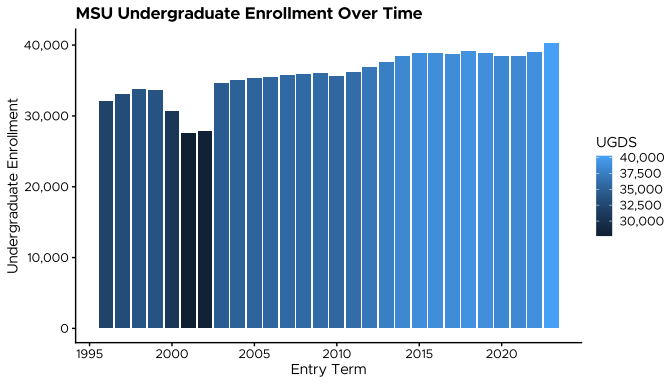
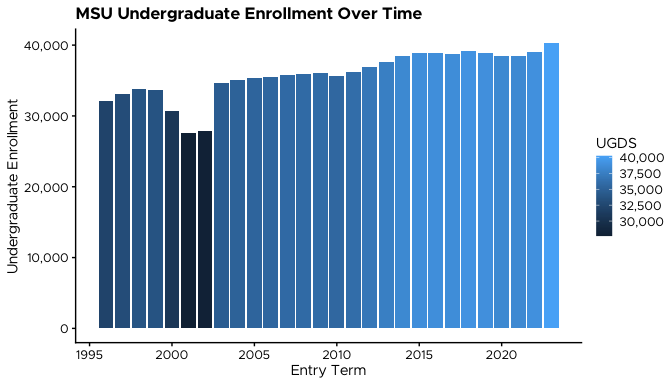
forgot to reknit the README.Rmd... new image files for the README too

diff --git a/README.md b/README.md
@@ -112,7 +112,7 @@ Or install the development version from GitHub:
 
 ``` r
 # install.packages("devtools")
-devtools::install_github("emilioxavier/MSUthemes")
+devtools::install_github("emilioxavier/MSUthemes", build_vignettes=TRUE)
 ```
 
 ## Quick Start
